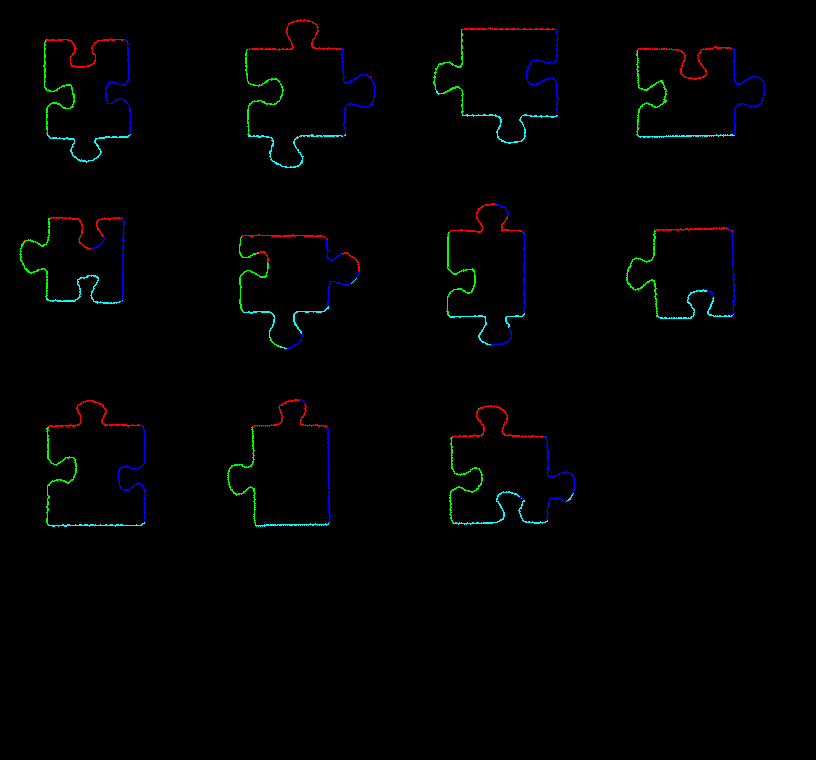
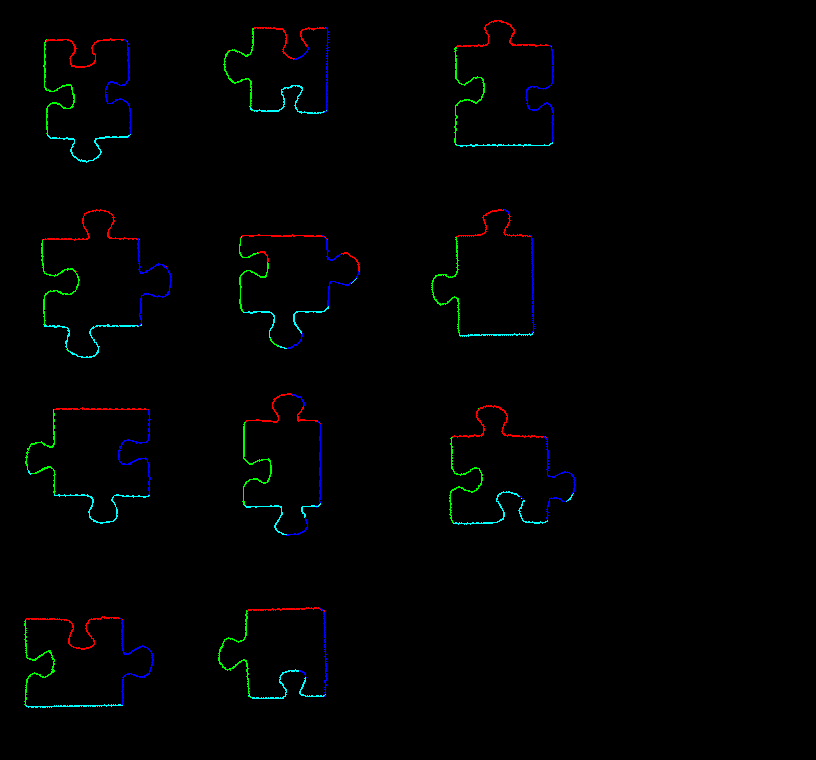
Rotated the Jigsaw Template, Add show image option when making the template, Add method to swap 2 pieces inside the 2D piece list

diff --git a/JigsawSolver/EdgeProcessing/jigsaw_visualizer.py b/JigsawSolver/EdgeProcessing/jigsaw_visualizer.py
@@ -1,12 +1,9 @@
 import cv2
 from PIL import Image
 
-from global_config import ENRICHED_PIECES_PATH, ENRICHED_PIECE, JIGSAW_PIECES_COUNT, NORMAL_JIGSAW_PATH, \
-    NORMAL_JIGASW_PIECE
-
 
 # Specific location has location in our template
-def template_maker(N, width, height, pieces, save):
+def template_maker(N, width, height, pieces, save=None, show=False):
     background = Image.new('RGB', (N*width, N*height), 'black')
     background.save(save)
     piece_locations = []
@@ -15,10 +12,48 @@ def template_maker(N, width, height, pieces, save):
         for j in range(len(pieces[i])):
             img = Image.open(pieces[i][j])
 
-            background.paste(img, (width*i, height*j))
+            background.paste(img, (width*j, height*i))
             background.save(save)
 
+    if show:
+        background.show()
+
     return piece_locations
+
+
+# Swap two pieces inside a 2D list, pieces=Jigsaw object
+# Make a new image of a "swapped list"
+def template_piece_swapper(N, width, height, pieces, save=None, piece1=None, piece2=None, show=False):
+    # extract piece1, piece2 and swap them
+    # pieces = new pieces
+    print(piece1, piece2)
+    p11,p12 = 0,0
+    p21,p22 = 0,0
+
+    for index in range(len(pieces)):
+
+        try:
+            if pieces[index].index(piece1):
+                p11 = index
+                p12 = pieces[index].index(piece1)
+
+                print("p1 found: ", pieces[index])
+
+        except ValueError:
+            pass
+
+        try:
+            if pieces[index].index(piece2):
+                p21 = index
+                p22 = pieces[index].index(piece2)
+                print("p2 found: ", pieces[index])
+
+        except ValueError:
+            pass
+
+    pieces[p11][p12], pieces[p21][p22] = piece2, piece1
+
+    template_maker(N, width, height, pieces, save=save, show=show)
 
 
 # Find largest width and height of extracted pieces
@@ -31,11 +66,6 @@ def find_max_edge_size(pieces):
         w = max(w, image_w)
 
     return h,w
-
-
-# Swap two pieces inside a list
-def template_piece_swapper():
-    1
 
 
 # merges all progress stages into one png image

diff --git a/JigsawSolver/EdgeProcessing/jigsaw_solver.py b/JigsawSolver/EdgeProcessing/jigsaw_solver.py
@@ -8,7 +8,7 @@ from JigsawPiece import JigsawPiece
 from global_config import ENRICHED_PIECES_PATH, ENRICHED_PIECE, JIGSAW_PIECES_COUNT, NORMAL_JIGSAW_PATH, \
     NORMAL_JIGASW_PIECE
 from harrisCorner import harris_corner_with_rotation
-from jigsaw_visualizer import find_max_edge_size, n_piece_splitter, template_maker
+from jigsaw_visualizer import find_max_edge_size, n_piece_splitter, template_maker, template_piece_swapper
 
 
 def jisaw_array(Jigsaw_List, show=False):
@@ -123,9 +123,12 @@ seperated_pieces2 = n_piece_splitter(N, pieces2)
 # Piece location, array of pieces or dictionary
 piece_locations = [[1 for _ in range(N)] for _ in range(N)]
 print(piece_locations)
-template_maker(N, max_w, max_h, seperated_pieces, 'canvas.png')
-template_maker(N, max_w, max_h, seperated_pieces2, 'canvas2.png')
 
+template_maker(N, max_w, max_h, seperated_pieces, save='canvas.png', show=True)
+template_maker(N, max_w, max_h, seperated_pieces2, save='canvas2.png', show=True)
+
+template_piece_swapper(N, max_w, max_h, seperated_pieces, 'canvas.png', piece1=ENRICHED_PIECES_PATH + ENRICHED_PIECE.format(0), piece2=ENRICHED_PIECES_PATH + ENRICHED_PIECE.format(1), show=True)
+template_piece_swapper(N, max_w, max_h, seperated_pieces2, save='canvas2.png', piece1=NORMAL_JIGSAW_PATH + NORMAL_JIGASW_PIECE.format(0), piece2=NORMAL_JIGSAW_PATH + NORMAL_JIGASW_PIECE.format(1), show=True)
 
 # Template maker, creates a fresh template at the start, then traverses the array to find pieces
 jigsaw_pieces = harris_corner_with_rotation(show=False)
